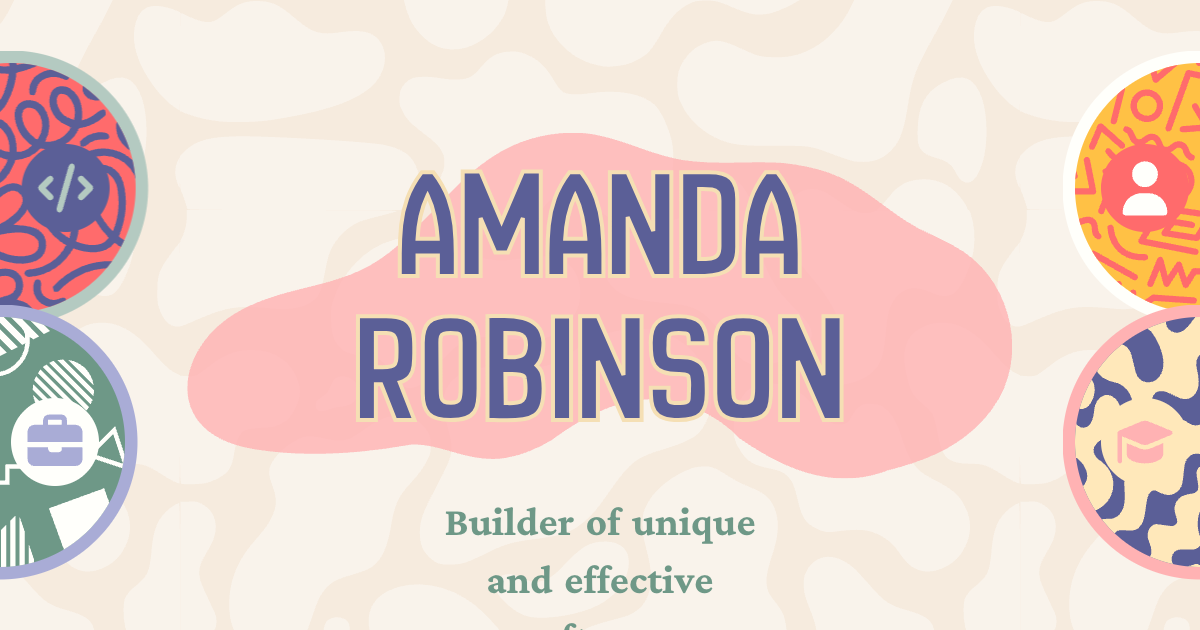
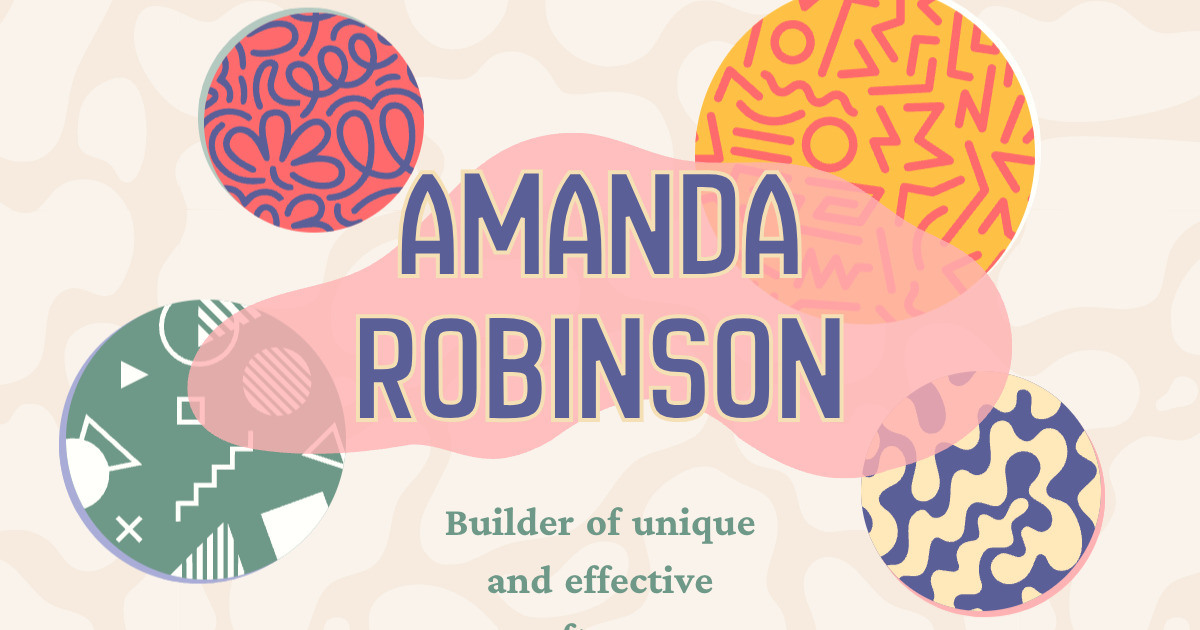
Ensure accessibility features, including tab-focusing and page structures

diff --git a/src/app/about.tsx b/src/app/about.tsx
@@ -13,7 +13,7 @@ interface activity {
 
 interface hobby {
     title: string;
-    photos?: {src: string, caption?: JSX.Element}[]
+    photos?: {src: string, alt: string, caption?: JSX.Element}[]
 }
 
 const activities: activity[] = [
@@ -25,11 +25,15 @@ const activities: activity[] = [
 ]
 
 const hobbies: hobby[] = [
-    {title: "Photography", photos: [{src: "/about/WakodahatcheeHeron.jpg"}, {src: "/about/KaylaSeniorPhoto.jpg"}, {src: "/about/Squirrel.jpg"}]},
-    {title: "Theater", photos: [{src: "/about/8ML-Exec-Cropped.jpg", caption: <p className={styles.caption}>The leadership team of <i>8 Minutes Left</i>, which I assistant stage managed.</p>}]},
-    {title: "Crafts", photos: [{src: "/about/origami-dragon.jpg"}]},
-    {title: "Board Games", photos: [{src: "/about/Catan.jpg"}]},
-    {title: "Learning New Skills", photos: [{src: "/about/stained-glass-snail.jpg", caption: <p className={styles.caption}>My first stained glass project!</p>}]}
+    {title: "Photography", photos: [
+        {src: "/about/WakodahatcheeHeron.jpg", alt: "A tricolored heron wading in rippling water"},
+        {src: "/about/KaylaSeniorPhoto.jpg", alt: "A woman in a white dress standing on a graffiti-covered pier at sunset"},
+        {src: "/about/Squirrel.jpg", alt: "A squirrel standing on sandy ground"}
+    ]},
+    {title: "Theater", photos: [{src: "/about/8ML-Exec-Cropped.jpg", alt: "Group photo of the leadership team on the set of 8 Minutes Left", caption: <p className={styles.caption}>The leadership team of <i>8 Minutes Left</i>, which I assistant stage managed.</p>}]},
+    {title: "Crafts", photos: [{src: "/about/origami-dragon.jpg", alt: "A purple origami dragon"}]},
+    {title: "Board Games", photos: [{src: "/about/Catan.jpg", alt: "A Settlers of Catan board game set up mid-play, with resource tiles, roads, and cards"}]},
+    {title: "Learning New Skills", photos: [{src: "/about/stained-glass-snail.jpg", alt: "A stained glass snail ornament in teal and orange", caption: <p className={styles.caption}>My first stained glass project!</p>}]}
 ]
 
 export default function About() {
@@ -53,6 +57,29 @@ export default function About() {
         }
         else {
             setActiveHobby(null)
+        }
+    }
+
+    // Only the .canClick <li>s (ones with details/photos to reveal — see the
+    // conditional class on each below) are genuinely interactive; the rest
+    // stay plain, non-focusable text, matching how neither is clickable-
+    // looking to a mouse user either. Enter/Space here mirror the Enter/
+    // Space handling added for education.tsx's .course and projects.tsx's
+    // .project — same reasoning: a plain <li onClick> has no keyboard
+    // affordance of its own.
+    const handleActivityKeyDown = (targetActivity: activity) => (e: React.KeyboardEvent) => {
+        if (e.target !== e.currentTarget) return
+        if (e.key === 'Enter' || e.key === ' ') {
+            e.preventDefault()
+            changeActiveActivity(targetActivity)
+        }
+    }
+
+    const handleHobbyKeyDown = (targetHobby: hobby) => (e: React.KeyboardEvent) => {
+        if (e.target !== e.currentTarget) return
+        if (e.key === 'Enter' || e.key === ' ') {
+            e.preventDefault()
+            changeActiveHobby(targetHobby)
         }
     }
 
@@ -123,11 +150,13 @@ export default function About() {
     return (
         <div className={styles.page}>
             <TintedVector src="/masks/Yellow-Memphis.svg" color='#FBDDA1' width='100vw' height='100vh' repeat='y' maskSize='cover' className={styles.aboutBackground}/>
-            <h1 className={styles.heading}>About Me</h1>
+            <header>
+                <h1 className={styles.heading}>About Me</h1>
+            </header>
             <div className={styles.mainContent}>
                 <div className={styles.upperSection}>
                     <div className={styles.mainPhoto}>
-                        <img src="about/AmandaHeadshot8ML.jpg" className={styles.headshot}></img>
+                        <img src="about/AmandaHeadshot8ML.jpg" alt="Amanda Robinson smiling in front of a brick wall" className={styles.headshot}></img>
                     </div>
                     <p className={styles.mainDescription}>
                         I&#39;m Amanda Robinson, a California native and a third year Computer Science student at WPI. I&#39;ve been using software to solve problems for as long as I can remember. What began as a love of coding and logic puzzles has grown into a passion for building thoughtful, creative products that tackle challenging real-world problems.
@@ -160,7 +189,7 @@ export default function About() {
                                             leaving the box stuck too short. onLoad
                                             re-measures once each image's real size is
                                             known. */}
-                                        <img className={styles.previewImg} src={photo.src} onLoad={remeasure}/>
+                                        <img className={styles.previewImg} src={photo.src} alt={photo.alt} onLoad={remeasure}/>
                                         { photo.caption }
                                     </div>
                                 ))}
@@ -173,7 +202,15 @@ export default function About() {
                         <h2 className={styles.sectionTitle}>Activities & Leadership</h2>
                         <ul>
                             {activities.map((activity) => (
-                                <li key={activity.org} className={`${activity.details ? styles.canClick : ''} ${activeActivity === activity ? styles.activeSection : ''}`} onClick={() => changeActiveActivity(activity)}>{activity.org} | {activity.role}</li>
+                                <li
+                                    key={activity.org}
+                                    className={`${activity.details ? styles.canClick : ''} ${activeActivity === activity ? styles.activeSection : ''}`}
+                                    onClick={() => changeActiveActivity(activity)}
+                                    onKeyDown={activity.details ? handleActivityKeyDown(activity) : undefined}
+                                    role={activity.details ? 'button' : undefined}
+                                    tabIndex={activity.details ? 0 : undefined}
+                                    aria-expanded={activity.details ? activeActivity === activity : undefined}
+                                >{activity.org} | {activity.role}</li>
                             ))}
                         </ul>
                     </div>
@@ -181,7 +218,15 @@ export default function About() {
                         <h2 className={styles.sectionTitle}>Hobbies & Interests</h2>
                         <ul>
                             {hobbies.map((hobby) => (
-                                <li key={hobby.title} className={`${hobby.photos ? styles.canClick : ''} ${activeHobby === hobby ? styles.activeSection : ''}`} onClick={() => changeActiveHobby(hobby)}>{hobby.title}</li>
+                                <li
+                                    key={hobby.title}
+                                    className={`${hobby.photos ? styles.canClick : ''} ${activeHobby === hobby ? styles.activeSection : ''}`}
+                                    onClick={() => changeActiveHobby(hobby)}
+                                    onKeyDown={hobby.photos ? handleHobbyKeyDown(hobby) : undefined}
+                                    role={hobby.photos ? 'button' : undefined}
+                                    tabIndex={hobby.photos ? 0 : undefined}
+                                    aria-expanded={hobby.photos ? activeHobby === hobby : undefined}
+                                >{hobby.title}</li>
                             ))}
                         </ul>
                     </div>

diff --git a/src/app/projects.tsx b/src/app/projects.tsx
@@ -22,6 +22,26 @@ export default function Projects() {
         }
     }
 
+    // .project itself is a plain <div> — clickable via its own onClick below,
+    // but with no keyboard affordance at all by default (divs aren't
+    // focusable, and have no native Enter/Space activation). role="button" +
+    // tabIndex make it a real Tab stop; this handles the two keys a native
+    // <button> would respond to. e.target === e.currentTarget scopes it to
+    // the div itself, not a bubbled keydown from one of its own focusable
+    // children (the title <a>, the expand toggle <button>) — those already
+    // handle their own Enter/Space natively, and without this guard a single
+    // Enter press on the title would double-fire changeActiveProject (once
+    // from this handler via bubbling, once from the click the browser
+    // synthesizes for the link) — harmless since it no-ops when already
+    // active, but redundant.
+    const handleProjectKeyDown = (proj: string) => (e: React.KeyboardEvent) => {
+        if (e.target !== e.currentTarget) return
+        if (e.key === 'Enter' || e.key === ' ') {
+            e.preventDefault()
+            changeActiveProject(proj)
+        }
+    }
+
     // A title only ever links out once its own panel is the open one, and
     // only once projectGithubUrls actually has a real URL for it (still
     // blank above, to be filled in later) — until then this is false and
@@ -146,9 +166,19 @@ export default function Projects() {
     return (
         <div className={styles.page}>
             <TintedVector src="/masks/Red-Squiggles.svg" color='#FDBCBB' width='100vw' height='100vh' maskSize='cover' className={styles.projectsBackground}/>
-            <h1 className={styles.heading}>Projects</h1>
+            <header>
+                <h1 className={styles.heading}>Projects</h1>
+            </header>
             <div className={styles.projects}>
-                <div onClick={() => changeActiveProject('intervle')} className={`${styles.project} ${activeProject === 'intervle' ? styles.projectOpen : styles.projectClosed} ${styles.intervle}`}>
+                <div
+                    onClick={() => changeActiveProject('intervle')}
+                    onKeyDown={handleProjectKeyDown('intervle')}
+                    role="button"
+                    tabIndex={0}
+                    aria-expanded={activeProject === 'intervle'}
+                    aria-label="Intervle"
+                    className={`${styles.project} ${activeProject === 'intervle' ? styles.projectOpen : styles.projectClosed} ${styles.intervle}`}
+                >
                     {/* role="heading"/aria-level (not a wrapping <h2>) — the
                         rotate(-90deg) closed-state transform (see
                         .projectClosed .projectTitle below) needs to apply
@@ -181,7 +211,15 @@ export default function Projects() {
                         <div className={styles.description}><p>My first real web design project back in 2023, <a href='https://intervle-wordle-game.vercel.app/' target="_blank" rel="noopener noreferrer">Intervle</a> is a responsive web game inspired by everybody&#39;s favorite word puzzle, Wordle, but with a lexicographic twist. Results indicate alphabetical distance from the target word in either direction for each letter position.<br/>Technologies: HTML, CSS, JavaScript (Bootstrap)</p></div>
                     </div>
                 </div>
-                <div onClick={() => changeActiveProject('shopcomp')} className={`${styles.project} ${activeProject === 'shopcomp' ? styles.projectOpen : styles.projectClosed} ${styles.shopcomp}`}>
+                <div
+                    onClick={() => changeActiveProject('shopcomp')}
+                    onKeyDown={handleProjectKeyDown('shopcomp')}
+                    role="button"
+                    tabIndex={0}
+                    aria-expanded={activeProject === 'shopcomp'}
+                    aria-label="ShopComp"
+                    className={`${styles.project} ${activeProject === 'shopcomp' ? styles.projectOpen : styles.projectClosed} ${styles.shopcomp}`}
+                >
                     <a
                         role="heading"
                         aria-level={2}
@@ -210,7 +248,15 @@ export default function Projects() {
                         <div className={styles.description}><p>Shopcomp is a full-stack grocery comparison web app with an AWS backend, enabling users to upload/manage receipts, maintain shopping lists, and compute best-price options from historical purchase data using a MySQL relational schema. In my team, I was responsible for the shopping list and calculation functionality shown above for our Software Engineering final project. Additionally, I designed and refactored database schema and developed complex queries.<br/>Technologies: Next.js, React, TypeScript, AWS Amplify/Cognito, AWS CDK, MySQL</p></div>
                     </div>
                 </div>
-                <div onClick={() => changeActiveProject('heatmap')} className={`${styles.project} ${activeProject === 'heatmap' ? styles.projectOpen : styles.projectClosed} ${styles.heatmap}`}>
+                <div
+                    onClick={() => changeActiveProject('heatmap')}
+                    onKeyDown={handleProjectKeyDown('heatmap')}
+                    role="button"
+                    tabIndex={0}
+                    aria-expanded={activeProject === 'heatmap'}
+                    aria-label="Clinical Analysis"
+                    className={`${styles.project} ${activeProject === 'heatmap' ? styles.projectOpen : styles.projectClosed} ${styles.heatmap}`}
+                >
                     <a
                         role="heading"
                         aria-level={2}

diff --git a/src/app/education.tsx b/src/app/education.tsx
@@ -36,6 +36,20 @@ export default function Education() {
         }
     }
 
+    // .course is a plain <div> with no native keyboard support of its own —
+    // same fix as projects.tsx's .project: role="button" + tabIndex make it
+    // a real Tab stop, this handles the Enter/Space a native <button> would.
+    // target === currentTarget guards against a bubbled keydown from some
+    // future focusable child; there isn't one today, but costs nothing to
+    // guard against.
+    const handleCourseKeyDown = (targetCourse: course) => (e: React.KeyboardEvent) => {
+        if (e.target !== e.currentTarget) return
+        if (e.key === 'Enter' || e.key === ' ') {
+            e.preventDefault()
+            changeActiveCourse(targetCourse)
+        }
+    }
+
     // The description box is always mounted now (see the JSX below) so its
     // height transition has something to animate from/to — a conditionally
     // rendered element has no "previous state" to interpolate, so it would
@@ -203,7 +217,9 @@ export default function Education() {
     return (
         <div className={styles.page}>
             <TintedVector src="/masks/Blue-Squiggles.svg" color='#61659B' width='100vw' height='100vh' repeat="y" maskSize='cover' className={styles.educationBackground}/>
-            <h1 className={styles.heading}>Education</h1>
+            <header>
+                <h1 className={styles.heading}>Education</h1>
+            </header>
             <div className={styles.upperSection}>
                 <div className={styles.overview}>
                     <div className={styles.column}>
@@ -221,7 +237,20 @@ export default function Education() {
                 <div className={styles.relevantCourses}>
                     <div className={styles.row}>
                         {classes.slice(0, 4).map((course) => (
-                            <div key={course.code} className={styles.course} onMouseEnter={() => setHoveredCourseCode(course.code)} onMouseLeave={() => setHoveredCourseCode(null)} onClick={() => changeActiveCourse(course)}>
+                            <div
+                                key={course.code}
+                                className={styles.course}
+                                onMouseEnter={() => setHoveredCourseCode(course.code)}
+                                onMouseLeave={() => setHoveredCourseCode(null)}
+                                onFocus={(e) => e.target === e.currentTarget && setHoveredCourseCode(course.code)}
+                                onBlur={(e) => e.target === e.currentTarget && setHoveredCourseCode(null)}
+                                onClick={() => changeActiveCourse(course)}
+                                onKeyDown={handleCourseKeyDown(course)}
+                                role="button"
+                                tabIndex={0}
+                                aria-expanded={activeCourse === course}
+                                aria-label={course.title}
+                            >
                                 <div className={`${styles.courseTitle} ${activeCourse === course ? styles.activeCourse : ''}`}>{hoveredCourseCode === course.code ? course.code : course.title}</div>
                             </div>
                         ))}
@@ -241,7 +270,20 @@ export default function Education() {
                     </div>
                     <div className={styles.row}>
                         {classes.slice(4).map((course) => (
-                            <div key={course.code} className={styles.course} onMouseEnter={() => setHoveredCourseCode(course.code)} onMouseLeave={() => setHoveredCourseCode(null)} onClick={() => changeActiveCourse(course)}>
+                            <div
+                                key={course.code}
+                                className={styles.course}
+                                onMouseEnter={() => setHoveredCourseCode(course.code)}
+                                onMouseLeave={() => setHoveredCourseCode(null)}
+                                onFocus={(e) => e.target === e.currentTarget && setHoveredCourseCode(course.code)}
+                                onBlur={(e) => e.target === e.currentTarget && setHoveredCourseCode(null)}
+                                onClick={() => changeActiveCourse(course)}
+                                onKeyDown={handleCourseKeyDown(course)}
+                                role="button"
+                                tabIndex={0}
+                                aria-expanded={activeCourse === course}
+                                aria-label={course.title}
+                            >
                                 <div className={`${styles.courseTitle} ${activeCourse === course ? styles.activeCourse : ''}`}>{hoveredCourseCode === course.code ? course.code : course.title}</div>
                             </div>
                         ))}

diff --git a/src/app/sliders.tsx b/src/app/sliders.tsx
@@ -489,7 +489,7 @@ function useElementHeight<T extends HTMLElement>(initial: number) {
 }
 
 export function AllSliders({ appState, className, style } : AllSlidersProps ) {
-    const [allSlidersRef, heightPx] = useElementHeight<HTMLDivElement>(250)
+    const [allSlidersRef, heightPx] = useElementHeight<HTMLElement>(250)
     const height = `${heightPx}px`
     const width = `${heightPx * SLIDER_WIDTH_RATIO}px`
     
@@ -510,11 +510,11 @@ export function AllSliders({ appState, className, style } : AllSlidersProps ) {
         // long as it played, silently defeating the new focus-visible
         // open behavior on the one slider a first-time keyboard visitor is
         // most likely to reach first.
-        <div className={styles.allSliders} ref={allSlidersRef} onMouseOver={() => setNeverHovered(false)} onFocus={() => setNeverHovered(false)}>
+        <nav className={styles.allSliders} ref={allSlidersRef} aria-label="Site navigation" onMouseOver={() => setNeverHovered(false)} onFocus={() => setNeverHovered(false)}>
             <RedSlider width={width} height={height} className={className} style={style} sliderClassName={`${styles.topSlider} ${styles.slideLeft} ${shouldBounce ? styles.bounceSlider : ''}`} pathname={pathname}/>
             <GreenSlider width={width} height={height} className={className} style={style} sliderClassName={`${styles.bottomSlider} ${styles.slideLeft}`} pathname={pathname}/>
             <YellowSlider width={width} height={height} className={className} style={style} sliderClassName={`${styles.topSlider} ${styles.slideRight}`} pathname={pathname}/>
             <BlueSlider width={width} height={height} className={className} style={style} sliderClassName={`${styles.bottomSlider} ${styles.slideRight}`} pathname={pathname}/>
-        </div>
+        </nav>
     )
 }

diff --git a/src/app/home_page.tsx b/src/app/home_page.tsx
@@ -45,7 +45,7 @@ function OverviewSection() {
                     <div className={styles.blurb}>
                         <p>Hi! I&#39;m Amanda. I build things that make people&#39;s<br/>lives easier. I am energized by untangling complex problems and turning creative ideas into technology people can actually use.</p>
                     </div>
-                    <div className={styles.headshotContainer}><img src="headshot.jpg" className={styles.headshot}/></div>
+                    <div className={styles.headshotContainer}><img src="headshot.jpg" alt="Amanda Robinson smiling against a dark background" className={styles.headshot}/></div>
                 </div>
                 <div className={styles.lowerSection}>
                     <div className={styles.techStacks}>
@@ -127,7 +127,7 @@ export default function HomePage() {
             {/* <div className={styles.sliders}>
                 <AllSliders height='285px'/>
             </div> */}
-            <div className={styles.mainText}>
+            <header className={styles.mainText}>
                 <div className={styles.nameSection}>
                     <div className={styles.blobMask}>
                         {/* Sized as a fixed ratio of --text-block-width (defined in
@@ -156,7 +156,7 @@ export default function HomePage() {
                 <div className={styles.subtitleSection}>
                     <p className={styles.subtitle}>Builder of unique and effective software</p>
                 </div>
-            </div>
+            </header>
             <OverviewSection/>
         </div>
     )

diff --git a/src/app/app_shell.tsx b/src/app/app_shell.tsx
@@ -64,6 +64,10 @@ export default function AppShell({ children }: { children: React.ReactNode }) {
 
     return (
         <div className={styles.page}>
+            {/* AllSliders (a <nav>) and Footer (a <footer>) are siblings of
+                <main>, not nested inside it — <main> should hold only the
+                page's own unique content; site-wide navigation and footer
+                chrome are separate top-level landmarks, not part of it. */}
             <main className={styles.main}>
                 <AppIntroContext.Provider value={playIntro}>
                     {/* key={pathname} forces this wrapper (and so its fade-in
@@ -75,11 +79,11 @@ export default function AppShell({ children }: { children: React.ReactNode }) {
                         {children}
                     </div>
                 </AppIntroContext.Provider>
-                <div className={playIntro ? styles.sliderFadeIn : undefined}>
-                    <AllSliders appState={appState}/>
-                </div>
-                <Footer/>
             </main>
+            <div className={playIntro ? styles.sliderFadeIn : undefined}>
+                <AllSliders appState={appState}/>
+            </div>
+            <Footer/>
         </div>
     )
 }

diff --git a/src/app/resume.tsx b/src/app/resume.tsx
@@ -10,10 +10,12 @@ export default function Resume() {
     return (
         <div className={styles.page}>
             <TintedVector src="/masks/Red-Squiggles.svg" color='#c7d6d1' width='100vw' height='100vh' maskSize='cover' className={styles.resumeBackground}/>
-            <h1 className={styles.heading}>Resume</h1>
+            <header>
+                <h1 className={styles.heading}>Resume</h1>
+            </header>
             <div className={styles.resume}>
-                <a className={styles.downloadButton} href='https://docs.google.com/document/d/1-O_EsqOcbVnY0tlRIP4p0EGaKX2AzlZMeZXaj3E4uS4/export?format=pdf'>< FontAwesomeIcon icon={fas.faDownload} /></a>
-                <iframe src="/AmandaRobinsonResume.pdf#toolbar=0&navpanes=0&scrollbar=0"></iframe>
+                <a className={styles.downloadButton} href='https://docs.google.com/document/d/1-O_EsqOcbVnY0tlRIP4p0EGaKX2AzlZMeZXaj3E4uS4/export?format=pdf' aria-label="Download resume as PDF">< FontAwesomeIcon icon={fas.faDownload} aria-hidden="true" /></a>
+                <iframe src="/AmandaRobinsonResume.pdf#toolbar=0&navpanes=0&scrollbar=0" title="Amanda N. Robinson's résumé"></iframe>
             </div>
         </div>
     )

diff --git a/src/app/footer.tsx b/src/app/footer.tsx
@@ -11,7 +11,7 @@ export default function Footer() {
     const linkClassName = (href: string) => pathname === href ? styles.activeLink : undefined
 
     return (
-        <div className={styles.footer}>
+        <footer className={styles.footer}>
             <TintedVector src="/masks/cow-blobs.svg" color='#F9F3EB' repeat="x" maskSize="50%" className={styles.footerBackground}/>
             <div className={styles.centerSection}>
                 <a href='mailto:amanda@danivan.com'>amanda@danivan.com</a>
@@ -32,6 +32,6 @@ export default function Footer() {
             <div className={styles.copyright}>
                 <p>© Amanda N. Robinson 2026</p>
             </div>
-        </div>
+        </footer>
     )
 }

diff --git a/src/app/experience.tsx b/src/app/experience.tsx
@@ -10,7 +10,9 @@ export default function Experience() {
     return (
         <div className={styles.page}>
             <TintedVector src="/masks/Green-Memphis.svg" color='#729E8C' width='100vw' height='100vh' maskSize='cover' className={styles.experienceBackground}/>
-            <h1 className={styles.heading}>Work Experience</h1>
+            <header>
+                <h1 className={styles.heading}>Work Experience</h1>
+            </header>
             <div className={styles.mainBody}>
                 <div className={`${styles.section} ${styles.sectionLeft} ${styles.sfpti1}`}>
                     <div className={styles.titleSection}>
